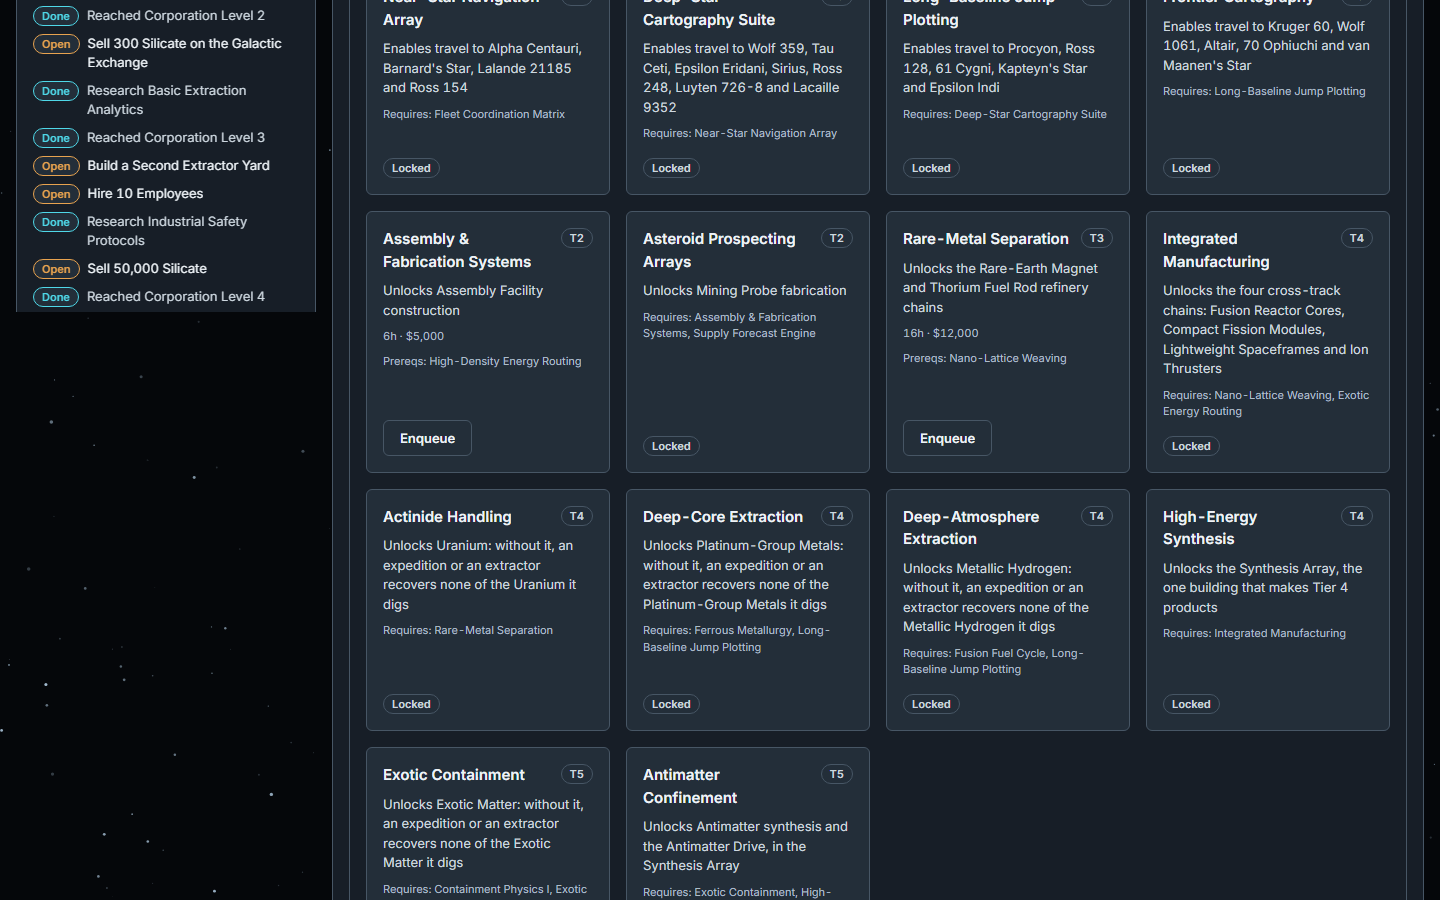
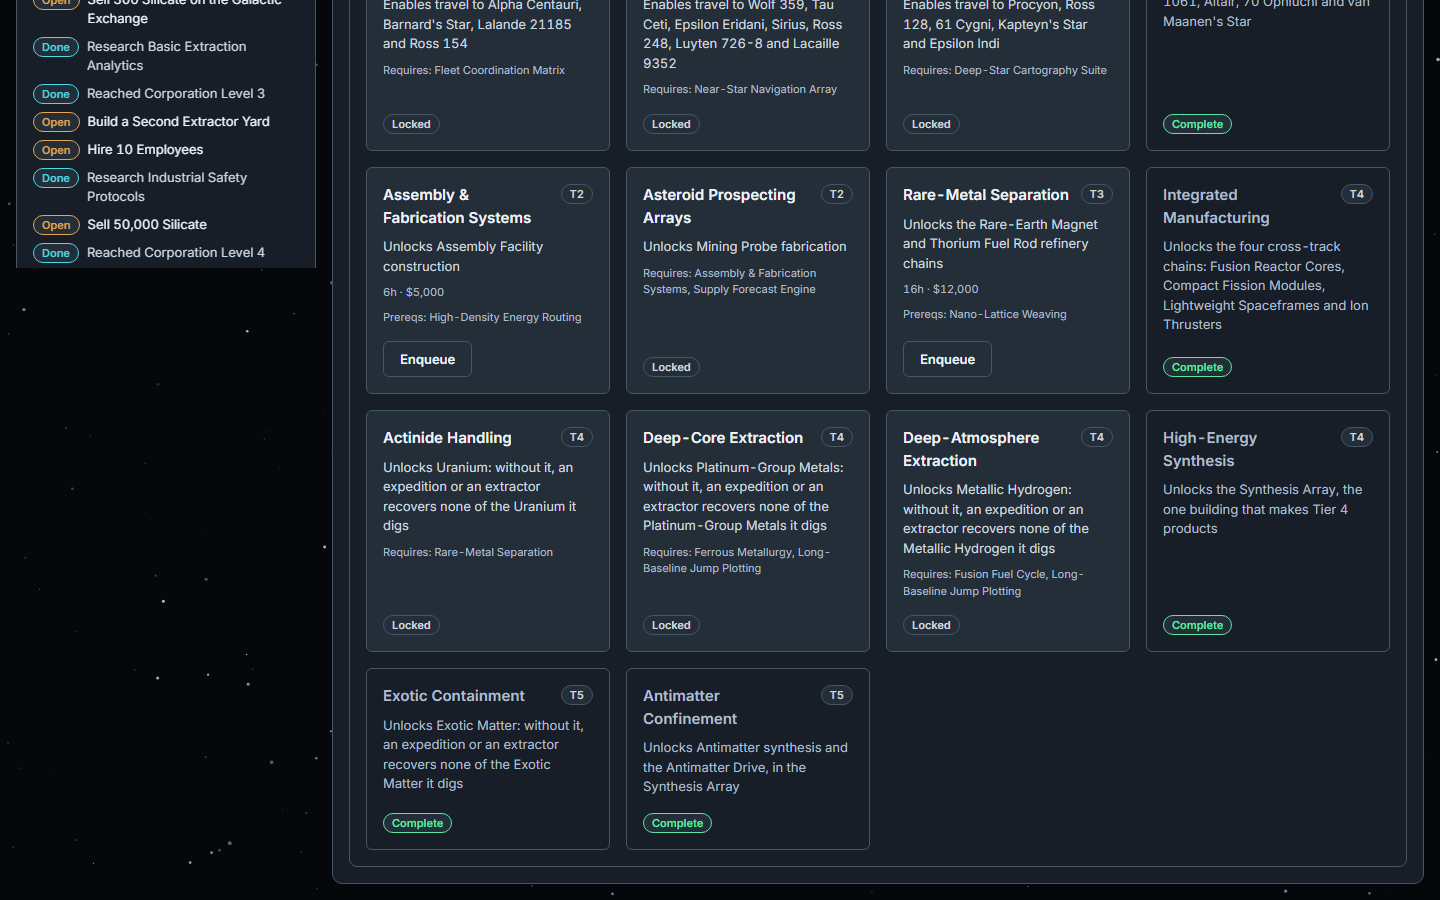
feat(ui): Tier 4 chain cards link the Synthesis Array and its research AB#885
Part 2, on AB#883's chains: a Tier 4 card without an Array links the building (the Station's construction entry, now
focusable) and High-Energy Synthesis. The look seeds a corporation with an Array, starts an Antimatter run from its
card as a player, and shows it running beside research-locked Tier 4 chains; a second corporation shows the no-Array
card and follows its link.

diff --git a/tests/unit/tier4Locks.test.js b/tests/unit/tier4Locks.test.js
@@ -1,6 +1,6 @@
 import { describe, it, expect } from "vitest";
 import { readFileSync } from "node:fs";
-import { itemGates, researchLinkHtml, researchNodeId, unrecoveredItemsHtml } from "../../public/scripts/researchLinks.js";
+import { buildingLinkHtml, itemGates, researchLinkHtml, researchNodeId, unrecoveredItemsHtml } from "../../public/scripts/researchLinks.js";
 import { resourceCatalogHtml } from "../../public/scripts/resourceCatalog.js";
 import { bodyResourceHtml } from "../../public/scripts/bodyInfo.js";
 import { researchNodeHtml } from "../../public/scripts/html.js";
@@ -67,5 +67,26 @@ describe("ISP-191 the Resource catalog is grouped by the design's tiers", () => 
 
   it("without tiers (an older server), one list as before", () => {
     expect(resourceCatalogHtml(["Silicates", "Nickel"], undefined)).toBe('<li class="ui-badge">Silicates</li><li class="ui-badge">Nickel</li>');
+  });
+});
+
+describe("ISP-191 part 2: a Tier 4 chain names the facility it needs, as a link", () => {
+  const REFINERY_VIEW = readFileSync(new URL("../../public/scripts/views/refinery.js", import.meta.url), "utf8");
+
+  it("the building link points at its construction entry, which can take focus", () => {
+    const link = buildingLinkHtml("synthesis-array", "Synthesis Array");
+    expect(link).toContain('data-building-link="synthesis-array"');
+    expect(text(link)).toBe("Synthesis Array");
+    expect(readFileSync(new URL("../../public/scripts/constructionPanel.js", import.meta.url), "utf8")).toContain('data-building-row="${id}" tabindex="-1"');
+  });
+
+  it("the card without an Array links both the Array and the research that allows it", () => {
+    expect(REFINERY_VIEW).toContain('Runs in a ${buildingLinkHtml("synthesis-array", "Synthesis Array")}');
+    expect(REFINERY_VIEW).toContain('${researchLinkHtml("tt-high-energy-synthesis", techTree)} research.');
+  });
+
+  it("Bug #4661: the start button that names what is short wraps inside its card", () => {
+    const css = readFileSync(new URL("../../public/styles.css", import.meta.url), "utf8").replace(/\r\n/g, "\n");
+    expect(css).toMatch(/\.refinery__start \{\n  white-space: normal;\n\}/);
   });
 });

diff --git a/public/scripts/researchLinks.js b/public/scripts/researchLinks.js
@@ -13,6 +13,11 @@ export function researchLinkHtml(id, tree = []) {
   return `<a class="refinery__link" href="#${escapeHtml(researchNodeId(id))}" data-research-link="${escapeHtml(id)}">${escapeHtml(name)}</a>`;
 }
 
+/** AB#885 part 2: a link to a building's entry in the Station's construction list (constructionPanel.js). */
+export function buildingLinkHtml(id, name) {
+  return `<a class="refinery__link" href="#station-construction-section" data-building-link="${escapeHtml(id)}">${escapeHtml(name)}</a>`;
+}
+
 /** Each research-gated item and the node that recovers it. */
 export function itemGates(tree = []) {
   const gates = new Map();
@@ -33,11 +38,20 @@ export function unrecoveredItemsHtml(items, tree = [], unlockedTech = new Set())
 }
 
 /**
- * Follow a research link from anywhere: open the R&D tab and bring the node's card on screen. Installed once, on the
- * document, so a link drawn after this runs still works.
+ * Follow a research link from anywhere: open the R&D tab and bring the node's card on screen; a building link opens the
+ * Station tab at that building's entry. Installed once, on the document, so a link drawn after this runs still works.
  */
 export function bindResearchLinks(setTab, doc = document) {
   doc.addEventListener("click", (event) => {
+    const building = event.target.closest?.("[data-building-link]");
+    if (building) {
+      event.preventDefault();
+      setTab("station");
+      const row = doc.querySelector(`[data-building-row="${CSS.escape(building.getAttribute("data-building-link"))}"]`) || doc.getElementById("station-construction-section");
+      row?.scrollIntoView({ block: "center" });
+      (row?.querySelector("button, select") || row)?.focus({ preventScroll: true }); // the card, when nothing in it can be pressed yet
+      return;
+    }
     const link = event.target.closest?.("[data-research-link]");
     if (!link) return;
     event.preventDefault();

diff --git a/public/scripts/views/refinery.js b/public/scripts/views/refinery.js
@@ -12,7 +12,7 @@ import { amountsText, chainTitle, consumersOf, defaultBatches, inputRows, output
 import { wholeNumber } from "../wholeNumber.js";
 import { scrollBehavior } from "../motion.js";
 import { appState, techTree } from "../state.js";
-import { researchLinkHtml } from "../researchLinks.js"; // AB#885
+import { buildingLinkHtml, researchLinkHtml } from "../researchLinks.js"; // AB#885
 import { resourceCatalogHtml } from "../resourceCatalog.js"; // AB#885
 import { clientPrices } from "../clientPrices.js";
 import { refineryMultiplierFor, refineryOutput } from "../refineryOutput.js"; // ISP-97 (AB#787), AB#794: output by tier
@@ -202,7 +202,8 @@ export function renderRefinery(data) {
             // ISP-189 (AB#883): a Tier 4 chain says where it runs, and what its Array needs, not the Refinery's.
             : onArray
               ? !hasFacility
-                ? `<p class="ui-card__meta">Runs in a Synthesis Array. Build one from the Station's construction list; it needs High-Energy Synthesis research.</p>`
+                // AB#885: the building and its research, each a link to where it is dealt with.
+                ? `<p class="ui-card__meta">Runs in a ${buildingLinkHtml("synthesis-array", "Synthesis Array")}. Build one from the Station's construction list; it needs ${researchLinkHtml("tt-high-energy-synthesis", techTree)} research.</p>`
                 : !idleRefinery ? `<p class="ui-card__meta"><span class="ui-badge ui-badge--warn">Synthesis Array busy</span></p>` : ""
             : belowRefineryCap && canBuildRefinery
               ? refineryBuildButtonHtml({ hasRefinery, used: buildings.length, slots: buildingSlots })

diff --git a/public/scripts/constructionPanel.js b/public/scripts/constructionPanel.js
@@ -101,7 +101,7 @@ function rowHtml({ building, cost, leases, reason, upgrades }) {
     ? `<p class="station__blocked">${escapeHtml(reason)}</p>`
     : `${leasePicker}<button class="ui-button ui-button--primary" data-build-id="${id}">Build (${money(cost)})</button>`;
   return `
-        <article class="ui-card station__card" data-building-row="${id}">
+        <article class="ui-card station__card" data-building-row="${id}" tabindex="-1">
           <header class="station__card-header"><h3>${escapeHtml(building.name)}</h3></header>
           <p class="ui-card__body">${escapeHtml(building.effect || "")}</p>
           <p class="station__note">${Number.isFinite(cost) ? money(cost) : "Price not loaded"} &middot; ${slotUse}</p>
